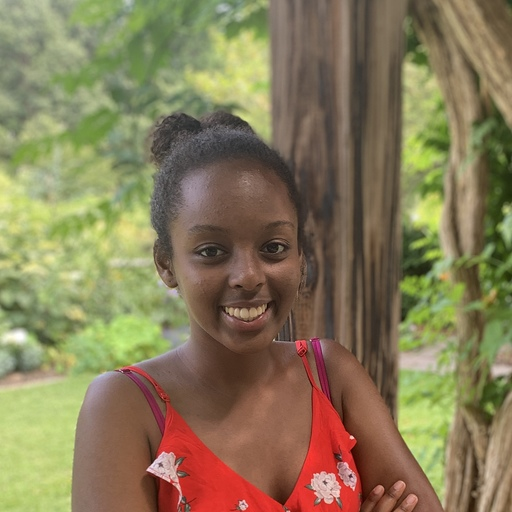
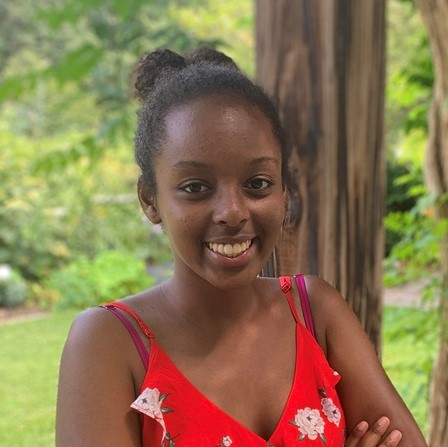
student quotes images

diff --git a/styles/styles.scss b/styles/styles.scss
@@ -158,10 +158,9 @@ $light-grey : #f8f8f8;
     img {
         margin-top: 0;
         margin-bottom: 20px;
-        border-radius: 20px;
+        border-radius: 50%;
         padding: 0;
-        width: 100%;
-        max-width: 320px;
+        width: 200px;
     }
 }
 

diff --git a/styles/styles.css b/styles/styles.css
@@ -147,10 +147,9 @@
 .quotes-container img {
   margin-top: 0;
   margin-bottom: 20px;
-  border-radius: 20px;
+  border-radius: 50%;
   padding: 0;
-  width: 100%;
-  max-width: 320px;
+  width: 200px;
 }
 
 /* .quote-row {
